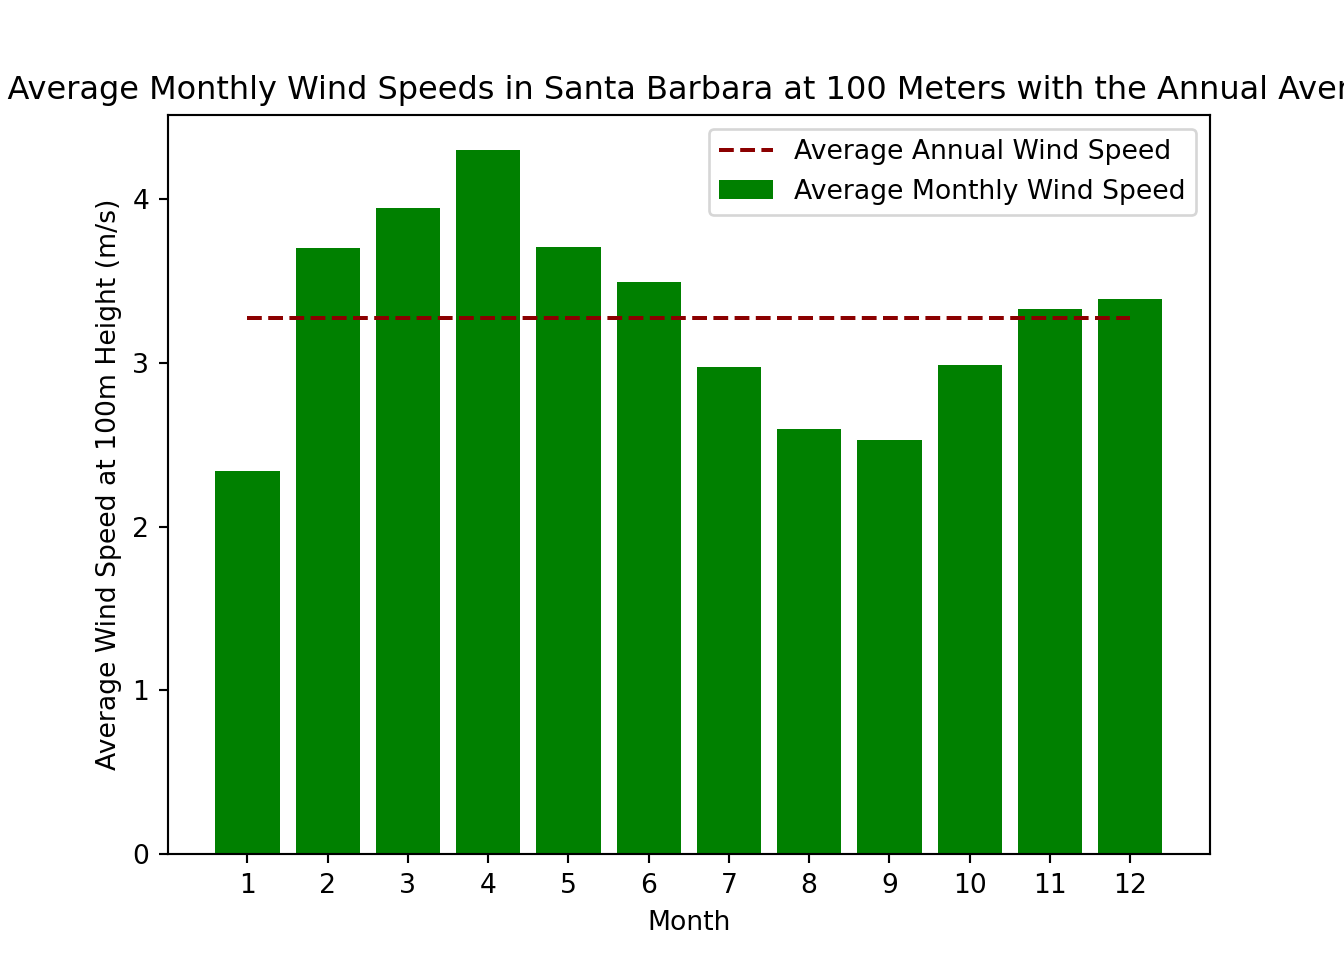
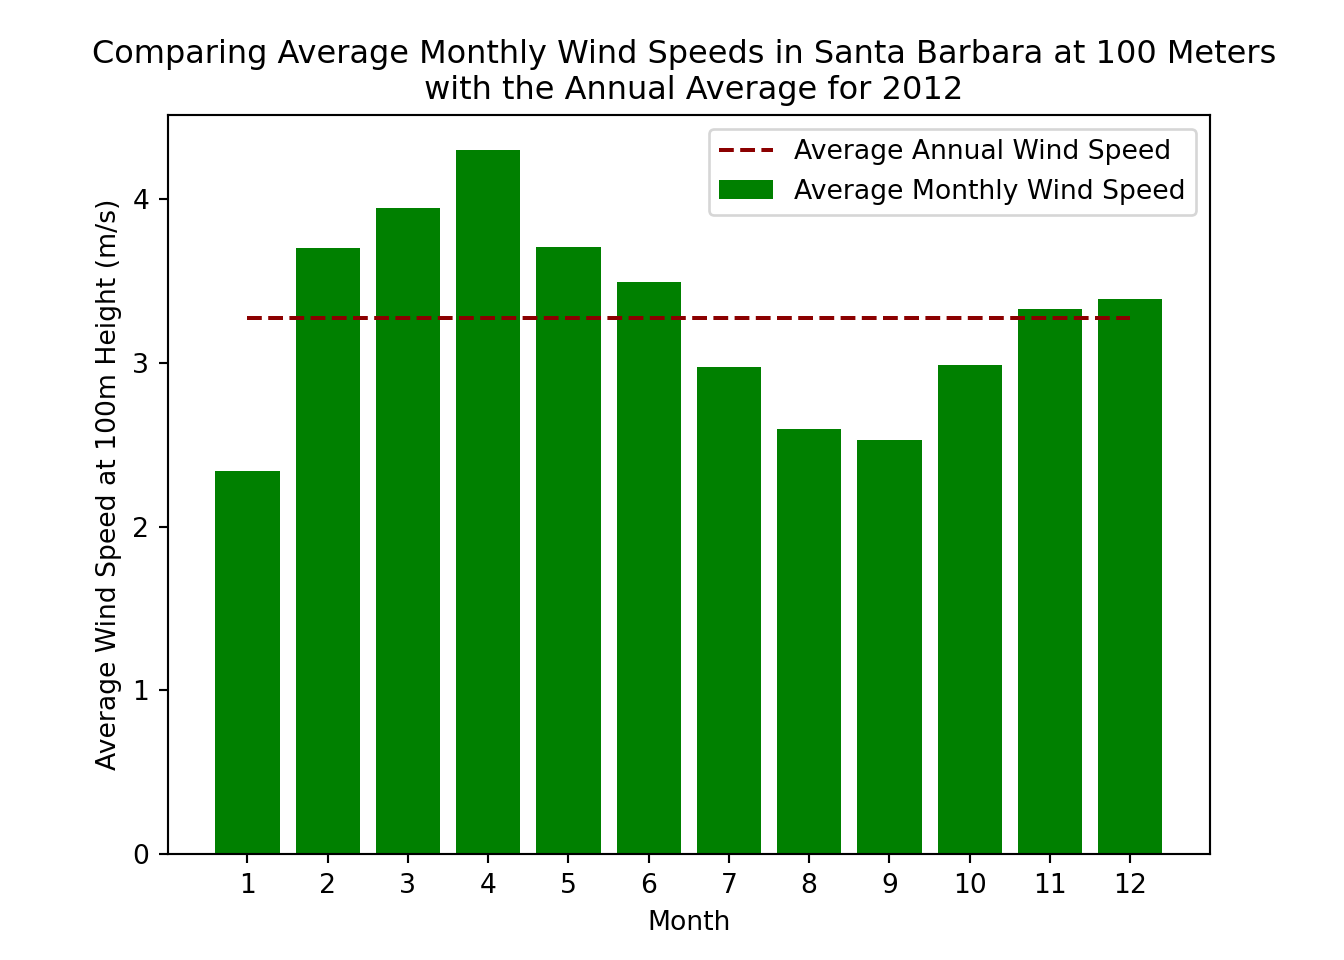
Fixed some spelling errors

Changed region(s): [[0.0, 0.0312, 1.0, 0.125]]

diff --git a/geospatial_task.html b/geospatial_task.html
@@ -116,11 +116,11 @@
 <ul class="collapse">
 <li><a href="#daily-averages" id="toc-daily-averages" class="nav-link" data-scroll-target="#daily-averages">Daily Averages</a></li>
 <li><a href="#monthly-averages" id="toc-monthly-averages" class="nav-link" data-scroll-target="#monthly-averages">Monthly Averages</a></li>
-<li><a href="#monthly-averages-for-each-month" id="toc-monthly-averages-for-each-month" class="nav-link" data-scroll-target="#monthly-averages-for-each-month">Monthly Averages for Each Month</a></li>
+<li><a href="#hourly-averages-for-each-month" id="toc-hourly-averages-for-each-month" class="nav-link" data-scroll-target="#hourly-averages-for-each-month">Hourly Averages for Each Month</a></li>
 </ul></li>
 <li><a href="#next-steps-and-considerations" id="toc-next-steps-and-considerations" class="nav-link" data-scroll-target="#next-steps-and-considerations">Next Steps and Considerations</a>
 <ul class="collapse">
-<li><a href="#a-function-to-find-indexes-for-multiple-points-of-interest-indices" id="toc-a-function-to-find-indexes-for-multiple-points-of-interest-indices" class="nav-link" data-scroll-target="#a-function-to-find-indexes-for-multiple-points-of-interest-indices">A Function to Find Indexes for Multiple Points of Interest Indices</a></li>
+<li><a href="#a-function-to-find-indexes-for-multiple-points-of-interest-or-a-bounding-box" id="toc-a-function-to-find-indexes-for-multiple-points-of-interest-or-a-bounding-box" class="nav-link" data-scroll-target="#a-function-to-find-indexes-for-multiple-points-of-interest-or-a-bounding-box">A Function to Find Indexes for Multiple Points of Interest or a Bounding Box</a></li>
 </ul></li>
 </ul></li>
 </ul>
@@ -165,7 +165,7 @@
 <p>Let’s import the data for the year 2012 and for the contiguous US.</p>
 <div class="cell">
 <div class="sourceCode cell-code" id="cb2"><pre class="sourceCode python code-with-copy"><code class="sourceCode python"><span id="cb2-1"><a href="#cb2-1" aria-hidden="true" tabindex="-1"></a>year <span class="op">=</span> <span class="st">'2012'</span></span>
-<span id="cb2-2"><a href="#cb2-2" aria-hidden="true" tabindex="-1"></a>country <span class="op">=</span> <span class="st">"conus"</span> <span class="co"># </span></span>
+<span id="cb2-2"><a href="#cb2-2" aria-hidden="true" tabindex="-1"></a>country <span class="op">=</span> <span class="st">'conus'</span> <span class="co"># can be 'conus', 'mexico', or 'canada'</span></span>
 <span id="cb2-3"><a href="#cb2-3" aria-hidden="true" tabindex="-1"></a>wind_file_path <span class="op">=</span> <span class="st">"/nrel/wtk/conus/wtk_"</span> <span class="op">+</span> country <span class="op">+</span> <span class="st">"_"</span> <span class="op">+</span> year <span class="op">+</span> <span class="st">".h5"</span></span>
 <span id="cb2-4"><a href="#cb2-4" aria-hidden="true" tabindex="-1"></a>raw_h5 <span class="op">=</span> h5pyd.File(wind_file_path, <span class="st">'r'</span>)</span>
 <span id="cb2-5"><a href="#cb2-5" aria-hidden="true" tabindex="-1"></a></span>
@@ -262,7 +262,7 @@
 <p>The below is a test for the function above for the point of interest (POI). The coordinates used in this example are for Santa Barbara, California. We are making the coords object the same as above here but it is included so that it is more obvious where things are coming from in the function call.</p>
 <div class="cell">
 <div class="sourceCode cell-code" id="cb19"><pre class="sourceCode python code-with-copy"><code class="sourceCode python"><span id="cb19-1"><a href="#cb19-1" aria-hidden="true" tabindex="-1"></a>coords <span class="op">=</span> raw_h5[<span class="st">'coordinates'</span>][...] <span class="co"># save coordinates data as array, ellipses makes it an array rather than HDF5</span></span>
-<span id="cb19-2"><a href="#cb19-2" aria-hidden="true" tabindex="-1"></a>POI <span class="op">=</span> (<span class="fl">34.420830</span>, <span class="op">-</span><span class="fl">119.698189</span>)</span>
+<span id="cb19-2"><a href="#cb19-2" aria-hidden="true" tabindex="-1"></a>POI <span class="op">=</span> (<span class="fl">34.420830</span>, <span class="op">-</span><span class="fl">119.698189</span>) <span class="co"># Santa Barbara</span></span>
 <span id="cb19-3"><a href="#cb19-3" aria-hidden="true" tabindex="-1"></a></span>
 <span id="cb19-4"><a href="#cb19-4" aria-hidden="true" tabindex="-1"></a>POI_indx <span class="op">=</span> nearest_site(coord_array <span class="op">=</span> coords, </span>
 <span id="cb19-5"><a href="#cb19-5" aria-hidden="true" tabindex="-1"></a>                        lat_coord <span class="op">=</span> POI[<span class="dv">0</span>], </span>
@@ -415,14 +415,14 @@
 </div>
 <div class="sourceCode cell-code" id="cb37"><pre class="sourceCode python code-with-copy"><code class="sourceCode python"><span id="cb37-1"><a href="#cb37-1" aria-hidden="true" tabindex="-1"></a>plt.xticks(monthly_var[<span class="st">'month'</span>])</span></code><button title="Copy to Clipboard" class="code-copy-button"><i class="bi"></i></button></pre></div>
 <div class="cell-output cell-output-stdout">
-<pre><code>([&lt;matplotlib.axis.XTick object at 0x28d25b820&gt;, &lt;matplotlib.axis.XTick object at 0x28d25b250&gt;, &lt;matplotlib.axis.XTick object at 0x28d7b2e80&gt;, &lt;matplotlib.axis.XTick object at 0x28e13d370&gt;, &lt;matplotlib.axis.XTick object at 0x28e13dac0&gt;, &lt;matplotlib.axis.XTick object at 0x28e143250&gt;, &lt;matplotlib.axis.XTick object at 0x28e1439a0&gt;, &lt;matplotlib.axis.XTick object at 0x28e14a130&gt;, &lt;matplotlib.axis.XTick object at 0x28e143d90&gt;, &lt;matplotlib.axis.XTick object at 0x28e13dd60&gt;, &lt;matplotlib.axis.XTick object at 0x28d7b7700&gt;, &lt;matplotlib.axis.XTick object at 0x28ad97f70&gt;], [Text(0, 0, ''), Text(0, 0, ''), Text(0, 0, ''), Text(0, 0, ''), Text(0, 0, ''), Text(0, 0, ''), Text(0, 0, ''), Text(0, 0, ''), Text(0, 0, ''), Text(0, 0, ''), Text(0, 0, ''), Text(0, 0, '')])</code></pre>
+<pre><code>([&lt;matplotlib.axis.XTick object at 0x298dbdf40&gt;, &lt;matplotlib.axis.XTick object at 0x298dbddc0&gt;, &lt;matplotlib.axis.XTick object at 0x2965af580&gt;, &lt;matplotlib.axis.XTick object at 0x298f95f10&gt;, &lt;matplotlib.axis.XTick object at 0x298fc04c0&gt;, &lt;matplotlib.axis.XTick object at 0x298fc0c10&gt;, &lt;matplotlib.axis.XTick object at 0x298fc43a0&gt;, &lt;matplotlib.axis.XTick object at 0x298fc4af0&gt;, &lt;matplotlib.axis.XTick object at 0x298fc4dc0&gt;, &lt;matplotlib.axis.XTick object at 0x298fc0ee0&gt;, &lt;matplotlib.axis.XTick object at 0x298f75280&gt;, &lt;matplotlib.axis.XTick object at 0x296598850&gt;], [Text(0, 0, ''), Text(0, 0, ''), Text(0, 0, ''), Text(0, 0, ''), Text(0, 0, ''), Text(0, 0, ''), Text(0, 0, ''), Text(0, 0, ''), Text(0, 0, ''), Text(0, 0, ''), Text(0, 0, ''), Text(0, 0, '')])</code></pre>
 </div>
 <div class="sourceCode cell-code" id="cb39"><pre class="sourceCode python code-with-copy"><code class="sourceCode python"><span id="cb39-1"><a href="#cb39-1" aria-hidden="true" tabindex="-1"></a>plt.plot(monthly_var[<span class="st">'month'</span>], monthly_var[<span class="st">'avg_windspeed'</span>], color <span class="op">=</span> <span class="st">"darkred"</span>, linestyle <span class="op">=</span> <span class="st">'dashed'</span>, label <span class="op">=</span> <span class="st">"Average Annual Wind Speed"</span>)</span>
 <span id="cb39-2"><a href="#cb39-2" aria-hidden="true" tabindex="-1"></a><span class="co"># plt.scatter(monthly_var['month'], monthly_var['month_avg_windspeed'] + monthly_var['standard_dev'], color = "grey", linestyle = 'dashed', label = "Monthly Standard Deviation")</span></span>
 <span id="cb39-3"><a href="#cb39-3" aria-hidden="true" tabindex="-1"></a><span class="co"># plt.scatter(monthly_var['month'], monthly_var['month_avg_windspeed'] - monthly_var['standard_dev'], color = "grey", linestyle = 'dashed')</span></span>
 <span id="cb39-4"><a href="#cb39-4" aria-hidden="true" tabindex="-1"></a>plt.xlabel(<span class="st">"Month"</span>)</span>
 <span id="cb39-5"><a href="#cb39-5" aria-hidden="true" tabindex="-1"></a>plt.ylabel(<span class="st">"Average Wind Speed at 100m Height (m/s)"</span>)</span>
-<span id="cb39-6"><a href="#cb39-6" aria-hidden="true" tabindex="-1"></a>plt.title(<span class="st">"Comparing Average Monthly Wind Speeds in Santa Barbara at 100 Meters with the Annual Average for 2012"</span>)</span>
+<span id="cb39-6"><a href="#cb39-6" aria-hidden="true" tabindex="-1"></a>plt.title(<span class="st">"Comparing Average Monthly Wind Speeds in Santa Barbara at 100 Meters </span><span class="ch">\n</span><span class="st"> with the Annual Average for 2012"</span>)</span>
 <span id="cb39-7"><a href="#cb39-7" aria-hidden="true" tabindex="-1"></a>plt.legend()</span>
 <span id="cb39-8"><a href="#cb39-8" aria-hidden="true" tabindex="-1"></a>plt.show()</span></code><button title="Copy to Clipboard" class="code-copy-button"><i class="bi"></i></button></pre></div>
 <div class="cell-output-display">
@@ -438,7 +438,7 @@
 </div>
 <div class="sourceCode cell-code" id="cb42"><pre class="sourceCode python code-with-copy"><code class="sourceCode python"><span id="cb42-1"><a href="#cb42-1" aria-hidden="true" tabindex="-1"></a>plt.xticks(monthly_var[<span class="st">'month'</span>])</span></code><button title="Copy to Clipboard" class="code-copy-button"><i class="bi"></i></button></pre></div>
 <div class="cell-output cell-output-stdout">
-<pre><code>([&lt;matplotlib.axis.XTick object at 0x28e14aa00&gt;, &lt;matplotlib.axis.XTick object at 0x28e14a520&gt;, &lt;matplotlib.axis.XTick object at 0x28e143c40&gt;, &lt;matplotlib.axis.XTick object at 0x28e19c040&gt;, &lt;matplotlib.axis.XTick object at 0x28e19c640&gt;, &lt;matplotlib.axis.XTick object at 0x28e19cd90&gt;, &lt;matplotlib.axis.XTick object at 0x28e1a2520&gt;, &lt;matplotlib.axis.XTick object at 0x28e1a2c70&gt;, &lt;matplotlib.axis.XTick object at 0x28e1a2910&gt;, &lt;matplotlib.axis.XTick object at 0x28e19c8e0&gt;, &lt;matplotlib.axis.XTick object at 0x28e1a7490&gt;, &lt;matplotlib.axis.XTick object at 0x28e1a7be0&gt;], [Text(0, 0, ''), Text(0, 0, ''), Text(0, 0, ''), Text(0, 0, ''), Text(0, 0, ''), Text(0, 0, ''), Text(0, 0, ''), Text(0, 0, ''), Text(0, 0, ''), Text(0, 0, ''), Text(0, 0, ''), Text(0, 0, '')])</code></pre>
+<pre><code>([&lt;matplotlib.axis.XTick object at 0x2965afe50&gt;, &lt;matplotlib.axis.XTick object at 0x2965af370&gt;, &lt;matplotlib.axis.XTick object at 0x298fb4a30&gt;, &lt;matplotlib.axis.XTick object at 0x2998186a0&gt;, &lt;matplotlib.axis.XTick object at 0x299818df0&gt;, &lt;matplotlib.axis.XTick object at 0x299820580&gt;, &lt;matplotlib.axis.XTick object at 0x299820cd0&gt;, &lt;matplotlib.axis.XTick object at 0x299825460&gt;, &lt;matplotlib.axis.XTick object at 0x299820a90&gt;, &lt;matplotlib.axis.XTick object at 0x299818a30&gt;, &lt;matplotlib.axis.XTick object at 0x299825c40&gt;, &lt;matplotlib.axis.XTick object at 0x29982d3d0&gt;], [Text(0, 0, ''), Text(0, 0, ''), Text(0, 0, ''), Text(0, 0, ''), Text(0, 0, ''), Text(0, 0, ''), Text(0, 0, ''), Text(0, 0, ''), Text(0, 0, ''), Text(0, 0, ''), Text(0, 0, ''), Text(0, 0, '')])</code></pre>
 </div>
 <div class="sourceCode cell-code" id="cb44"><pre class="sourceCode python code-with-copy"><code class="sourceCode python"><span id="cb44-1"><a href="#cb44-1" aria-hidden="true" tabindex="-1"></a>plt.scatter(monthly_var[<span class="st">'month'</span>], monthly_var[<span class="st">'month_avg_windspeed'</span>] <span class="op">+</span> monthly_var[<span class="st">'standard_dev'</span>], color <span class="op">=</span> <span class="st">"grey"</span>, linestyle <span class="op">=</span> <span class="st">'dashed'</span>, label <span class="op">=</span> <span class="st">"Monthly Standard Deviation"</span>)</span>
 <span id="cb44-2"><a href="#cb44-2" aria-hidden="true" tabindex="-1"></a>plt.scatter(monthly_var[<span class="st">'month'</span>], monthly_var[<span class="st">'month_avg_windspeed'</span>] <span class="op">-</span> monthly_var[<span class="st">'standard_dev'</span>], color <span class="op">=</span> <span class="st">"grey"</span>, linestyle <span class="op">=</span> <span class="st">'dashed'</span>)</span>
@@ -453,8 +453,8 @@
 </div>
 <p>Including the standard deviations in this plot show us the variability of wind in that particular month in much greater detail. So in February, you can have days with more extreme winds but you can also have days with practically no wind. Whereas in July you have a lower average wind speed, but it is less variable throughout the month. What if we wanted to look how wind speed varies for the hours in a day for a particular month?</p>
 </section>
-<section id="monthly-averages-for-each-month" class="level3">
-<h3 class="anchored" data-anchor-id="monthly-averages-for-each-month">Monthly Averages for Each Month</h3>
+<section id="hourly-averages-for-each-month" class="level3">
+<h3 class="anchored" data-anchor-id="hourly-averages-for-each-month">Hourly Averages for Each Month</h3>
 <div class="cell">
 <div class="sourceCode cell-code" id="cb45"><pre class="sourceCode python code-with-copy"><code class="sourceCode python"><span id="cb45-1"><a href="#cb45-1" aria-hidden="true" tabindex="-1"></a>hourly_var <span class="op">=</span> time_subset(period <span class="op">=</span> <span class="st">'hour'</span>, df <span class="op">=</span> df_100m)</span>
 <span id="cb45-2"><a href="#cb45-2" aria-hidden="true" tabindex="-1"></a>hourly_var.head()</span></code><button title="Copy to Clipboard" class="code-copy-button"><i class="bi"></i></button></pre></div>
@@ -476,7 +476,7 @@
 <span id="cb47-5"><a href="#cb47-5" aria-hidden="true" tabindex="-1"></a>plt.plot(july_var[<span class="st">'hour'</span>], july_var[<span class="st">'hour_avg_windspeed'</span>], label <span class="op">=</span> <span class="st">"July Hourly Wind Speed"</span>, color <span class="op">=</span> <span class="st">"green"</span>)</span>
 <span id="cb47-6"><a href="#cb47-6" aria-hidden="true" tabindex="-1"></a>plt.xticks(july_var[<span class="st">'hour'</span>])</span></code><button title="Copy to Clipboard" class="code-copy-button"><i class="bi"></i></button></pre></div>
 <div class="cell-output cell-output-stdout">
-<pre><code>([&lt;matplotlib.axis.XTick object at 0x28e1e2e20&gt;, &lt;matplotlib.axis.XTick object at 0x28e1e2e50&gt;, &lt;matplotlib.axis.XTick object at 0x28e1aec40&gt;, &lt;matplotlib.axis.XTick object at 0x28e176580&gt;, &lt;matplotlib.axis.XTick object at 0x28e1f93d0&gt;, &lt;matplotlib.axis.XTick object at 0x28e1f9b20&gt;, &lt;matplotlib.axis.XTick object at 0x28e1fe2b0&gt;, &lt;matplotlib.axis.XTick object at 0x28e1f9b50&gt;, &lt;matplotlib.axis.XTick object at 0x28e176b50&gt;, &lt;matplotlib.axis.XTick object at 0x28e1fed60&gt;, &lt;matplotlib.axis.XTick object at 0x28e2044f0&gt;, &lt;matplotlib.axis.XTick object at 0x28e204c40&gt;, &lt;matplotlib.axis.XTick object at 0x28e20b3d0&gt;, &lt;matplotlib.axis.XTick object at 0x28e20bb20&gt;, &lt;matplotlib.axis.XTick object at 0x28e20b6a0&gt;, &lt;matplotlib.axis.XTick object at 0x28e2045b0&gt;, &lt;matplotlib.axis.XTick object at 0x28e1f94c0&gt;, &lt;matplotlib.axis.XTick object at 0x28e2106a0&gt;, &lt;matplotlib.axis.XTick object at 0x28e210df0&gt;, &lt;matplotlib.axis.XTick object at 0x28e21a580&gt;, &lt;matplotlib.axis.XTick object at 0x28e21acd0&gt;, &lt;matplotlib.axis.XTick object at 0x28e21a850&gt;, &lt;matplotlib.axis.XTick object at 0x28e210760&gt;, &lt;matplotlib.axis.XTick object at 0x28e20b130&gt;], [Text(0, 0, ''), Text(0, 0, ''), Text(0, 0, ''), Text(0, 0, ''), Text(0, 0, ''), Text(0, 0, ''), Text(0, 0, ''), Text(0, 0, ''), Text(0, 0, ''), Text(0, 0, ''), Text(0, 0, ''), Text(0, 0, ''), Text(0, 0, ''), Text(0, 0, ''), Text(0, 0, ''), Text(0, 0, ''), Text(0, 0, ''), Text(0, 0, ''), Text(0, 0, ''), Text(0, 0, ''), Text(0, 0, ''), Text(0, 0, ''), Text(0, 0, ''), Text(0, 0, '')])</code></pre>
+<pre><code>([&lt;matplotlib.axis.XTick object at 0x29985efd0&gt;, &lt;matplotlib.axis.XTick object at 0x29985eb80&gt;, &lt;matplotlib.axis.XTick object at 0x299820c40&gt;, &lt;matplotlib.axis.XTick object at 0x2998773a0&gt;, &lt;matplotlib.axis.XTick object at 0x299877af0&gt;, &lt;matplotlib.axis.XTick object at 0x29987b280&gt;, &lt;matplotlib.axis.XTick object at 0x29987b9d0&gt;, &lt;matplotlib.axis.XTick object at 0x29987b670&gt;, &lt;matplotlib.axis.XTick object at 0x299877640&gt;, &lt;matplotlib.axis.XTick object at 0x2998804c0&gt;, &lt;matplotlib.axis.XTick object at 0x299880c10&gt;, &lt;matplotlib.axis.XTick object at 0x2998863a0&gt;, &lt;matplotlib.axis.XTick object at 0x299886af0&gt;, &lt;matplotlib.axis.XTick object at 0x29988d280&gt;, &lt;matplotlib.axis.XTick object at 0x299886850&gt;, &lt;matplotlib.axis.XTick object at 0x2998809d0&gt;, &lt;matplotlib.axis.XTick object at 0x29988d250&gt;, &lt;matplotlib.axis.XTick object at 0x29988ddc0&gt;, &lt;matplotlib.axis.XTick object at 0x299897550&gt;, &lt;matplotlib.axis.XTick object at 0x299897ca0&gt;, &lt;matplotlib.axis.XTick object at 0x29989b430&gt;, &lt;matplotlib.axis.XTick object at 0x299897940&gt;, &lt;matplotlib.axis.XTick object at 0x29988d910&gt;, &lt;matplotlib.axis.XTick object at 0x29989ba30&gt;], [Text(0, 0, ''), Text(0, 0, ''), Text(0, 0, ''), Text(0, 0, ''), Text(0, 0, ''), Text(0, 0, ''), Text(0, 0, ''), Text(0, 0, ''), Text(0, 0, ''), Text(0, 0, ''), Text(0, 0, ''), Text(0, 0, ''), Text(0, 0, ''), Text(0, 0, ''), Text(0, 0, ''), Text(0, 0, ''), Text(0, 0, ''), Text(0, 0, ''), Text(0, 0, ''), Text(0, 0, ''), Text(0, 0, ''), Text(0, 0, ''), Text(0, 0, ''), Text(0, 0, '')])</code></pre>
 </div>
 <div class="sourceCode cell-code" id="cb49"><pre class="sourceCode python code-with-copy"><code class="sourceCode python"><span id="cb49-1"><a href="#cb49-1" aria-hidden="true" tabindex="-1"></a>plt.plot(march_var[<span class="st">'hour'</span>], march_var[<span class="st">'hour_avg_windspeed'</span>], label <span class="op">=</span> <span class="st">"March Hourly Wind Speed"</span>)</span>
 <span id="cb49-2"><a href="#cb49-2" aria-hidden="true" tabindex="-1"></a>plt.xlabel(<span class="st">"Hour of Day"</span>)</span>
@@ -493,8 +493,8 @@
 <section id="next-steps-and-considerations" class="level2">
 <h2 class="anchored" data-anchor-id="next-steps-and-considerations">Next Steps and Considerations</h2>
 <p>With the above code we are able to look at wind speed variation at a specific point for a given year at different heights. It is also possible to use the resulting data frames to visualize these variations. The below tries to expand the work done above to be able to compare multiple points from a data frame.</p>
-<section id="a-function-to-find-indexes-for-multiple-points-of-interest-indices" class="level3">
-<h3 class="anchored" data-anchor-id="a-function-to-find-indexes-for-multiple-points-of-interest-indices">A Function to Find Indexes for Multiple Points of Interest Indices</h3>
+<section id="a-function-to-find-indexes-for-multiple-points-of-interest-or-a-bounding-box" class="level3">
+<h3 class="anchored" data-anchor-id="a-function-to-find-indexes-for-multiple-points-of-interest-or-a-bounding-box">A Function to Find Indexes for Multiple Points of Interest or a Bounding Box</h3>
 <p>The function below, <code>multiple_site_index</code>, works with the <code>nearest_site</code> function above to work with multiple coordinate points rather than one location. The function assumes that the data frame’s first column is “lat” and the second column is “lon”.</p>
 <div class="cell">
 <div class="sourceCode cell-code" id="cb50"><pre class="sourceCode python code-with-copy"><code class="sourceCode python"><span id="cb50-1"><a href="#cb50-1" aria-hidden="true" tabindex="-1"></a><span class="kw">def</span> multiple_site_index(POI_df, coord_array):</span>
